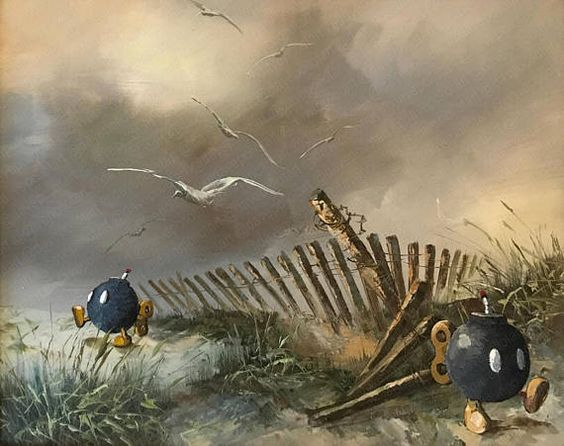
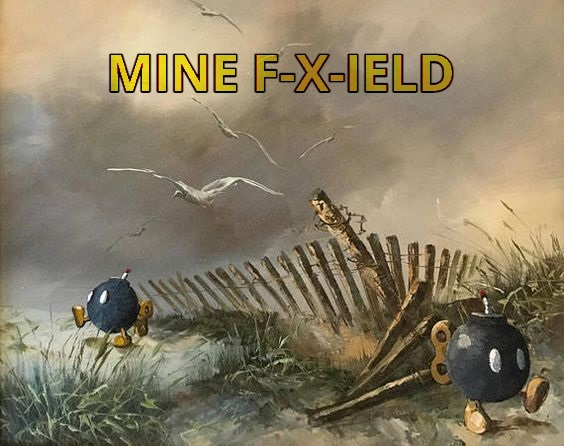
Background changed + add title to game stage

Changed region(s): [[0.4521, 0.1166, 0.8138, 0.2332], [0.1809, 0.1166, 0.422, 0.2332]]

diff --git a/Campo Minato/src/main/java/it/tommy/mine/fxield/application/campominato/CampoMinatoApplication.java b/Campo Minato/src/main/java/it/tommy/mine/fxield/application/campominato/CampoMinatoApplication.java
@@ -108,6 +108,8 @@ public class CampoMinatoApplication extends Application {
 
 		gameStage.setOnCloseRequest(e->primaryStage.show());
 
+		gameStage.setTitle("Matrix "+matriceCampoMinato.getMatriceCampoMinato().length+"x"+matriceCampoMinato.getMatriceCampoMinato()[0].length+" - bombs: "+matriceCampoMinato.getBombsNumber());
+		gameStage.setResizable(false);
 		gameStage.show();
 		primaryStage.hide();
     	return true;
@@ -120,6 +122,7 @@ public class CampoMinatoApplication extends Application {
     }
 
     public Image setBackground(){
+
 		try(InputStream is = getClass().getResourceAsStream("/minefield.jpg");)
 		{
 			return new Image(is);
